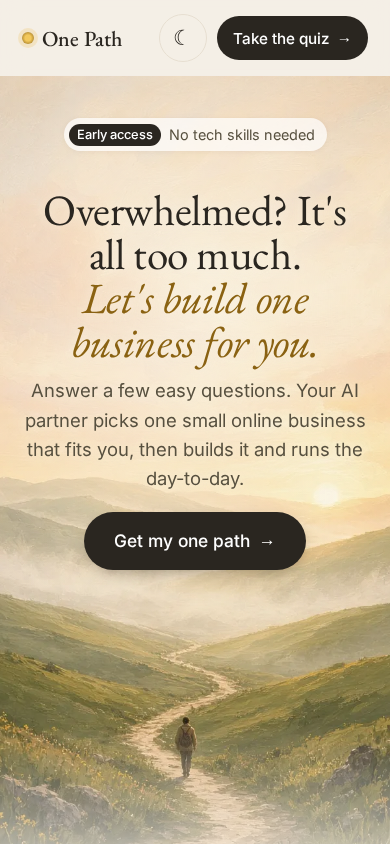
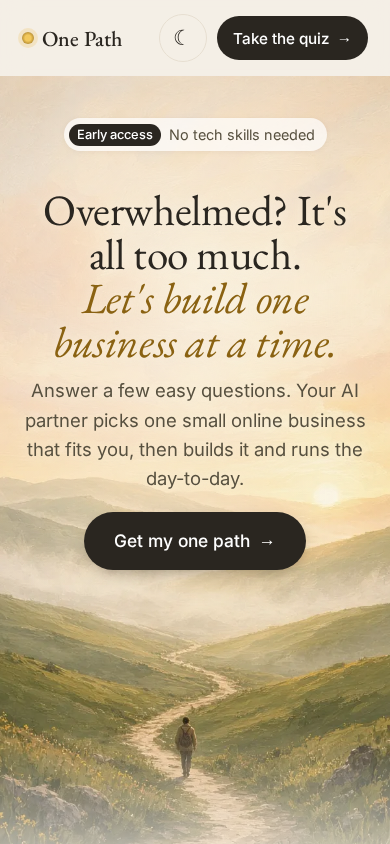
Extra businesses $29/mo line, one-at-a-time headline

Changed region(s): [[0.1231, 0.3697, 0.8615, 0.4313]]

diff --git a/index.html b/index.html
@@ -15,7 +15,7 @@
 <main>
 <section class="hero"><picture class="heroimg day" aria-hidden="true"><source media="(max-width:759px)" srcset="img/hero-tall.webp"><img src="img/hero-wide.webp" alt="" fetchpriority="high"></picture><picture class="heroimg night" aria-hidden="true"><source media="(max-width:759px)" srcset="img/hero-night-tall.webp"><img src="img/hero-night-wide.webp" alt="" loading="lazy"></picture><div class="wrap fade">
   <p class="tag"><b>Early access</b> No tech skills needed</p>
-  <h1>Overwhelmed? It's all too much.<br><em>Let's build one business for you.</em></h1>
+  <h1>Overwhelmed? It's all too much.<br><em>Let's build one business at a time.</em></h1>
   <p class="sub">Answer a few easy questions. Your AI partner picks one small online business that fits you, then builds it and runs the day-to-day.</p>
   <a href="#quiz" class="btn">Get my one path <span>→</span></a>
   <ul class="reassure"><li>Free</li><li>Takes about 5 minutes</li><li>Go back anytime</li><li>You can't break anything</li></ul>
@@ -42,6 +42,7 @@
   <h2>Founding spot: $49/mo</h2>
   <p>Not live yet. Reserving charges <b>nothing</b>, it just saves your place and the founding price.</p>
   <button class="btn alt" id="found">Reserve founding spot, $49/mo</button>
+  <p class="more">Want more later? Each extra business is $29/mo, and we build them one at a time.</p>
   <p id="fmsg" class="ok" hidden>You're on the founding list. Nothing was charged.</p>
 </section>
 </main>

diff --git a/style.css b/style.css
@@ -151,3 +151,4 @@ footer{font-size:.9rem}.how p{font-size:1.02rem}
 [data-theme=dark] #result p{color:#D9D1C1}
 [data-theme=dark] .box{border-color:#8E97B5}
 [data-theme=dark] .opt{border-color:#38446A}
+.more{font-size:.95rem;color:var(--mute);margin:12px 0 0}
